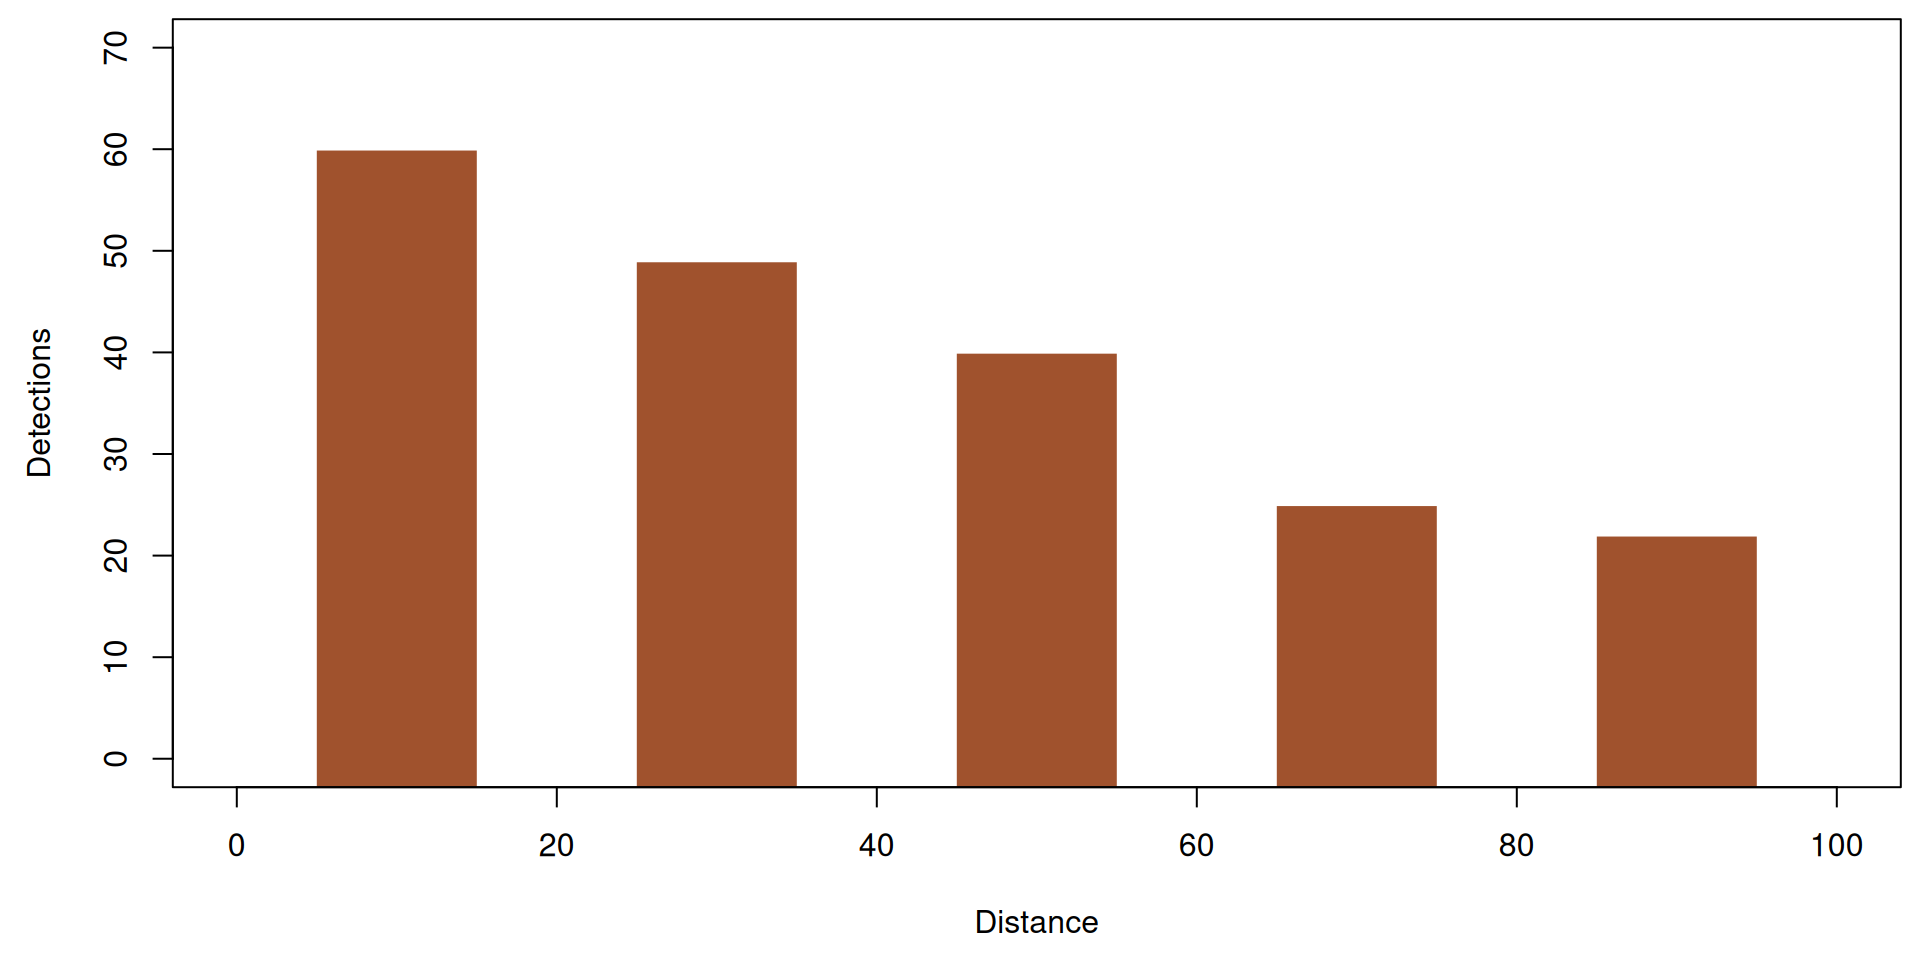
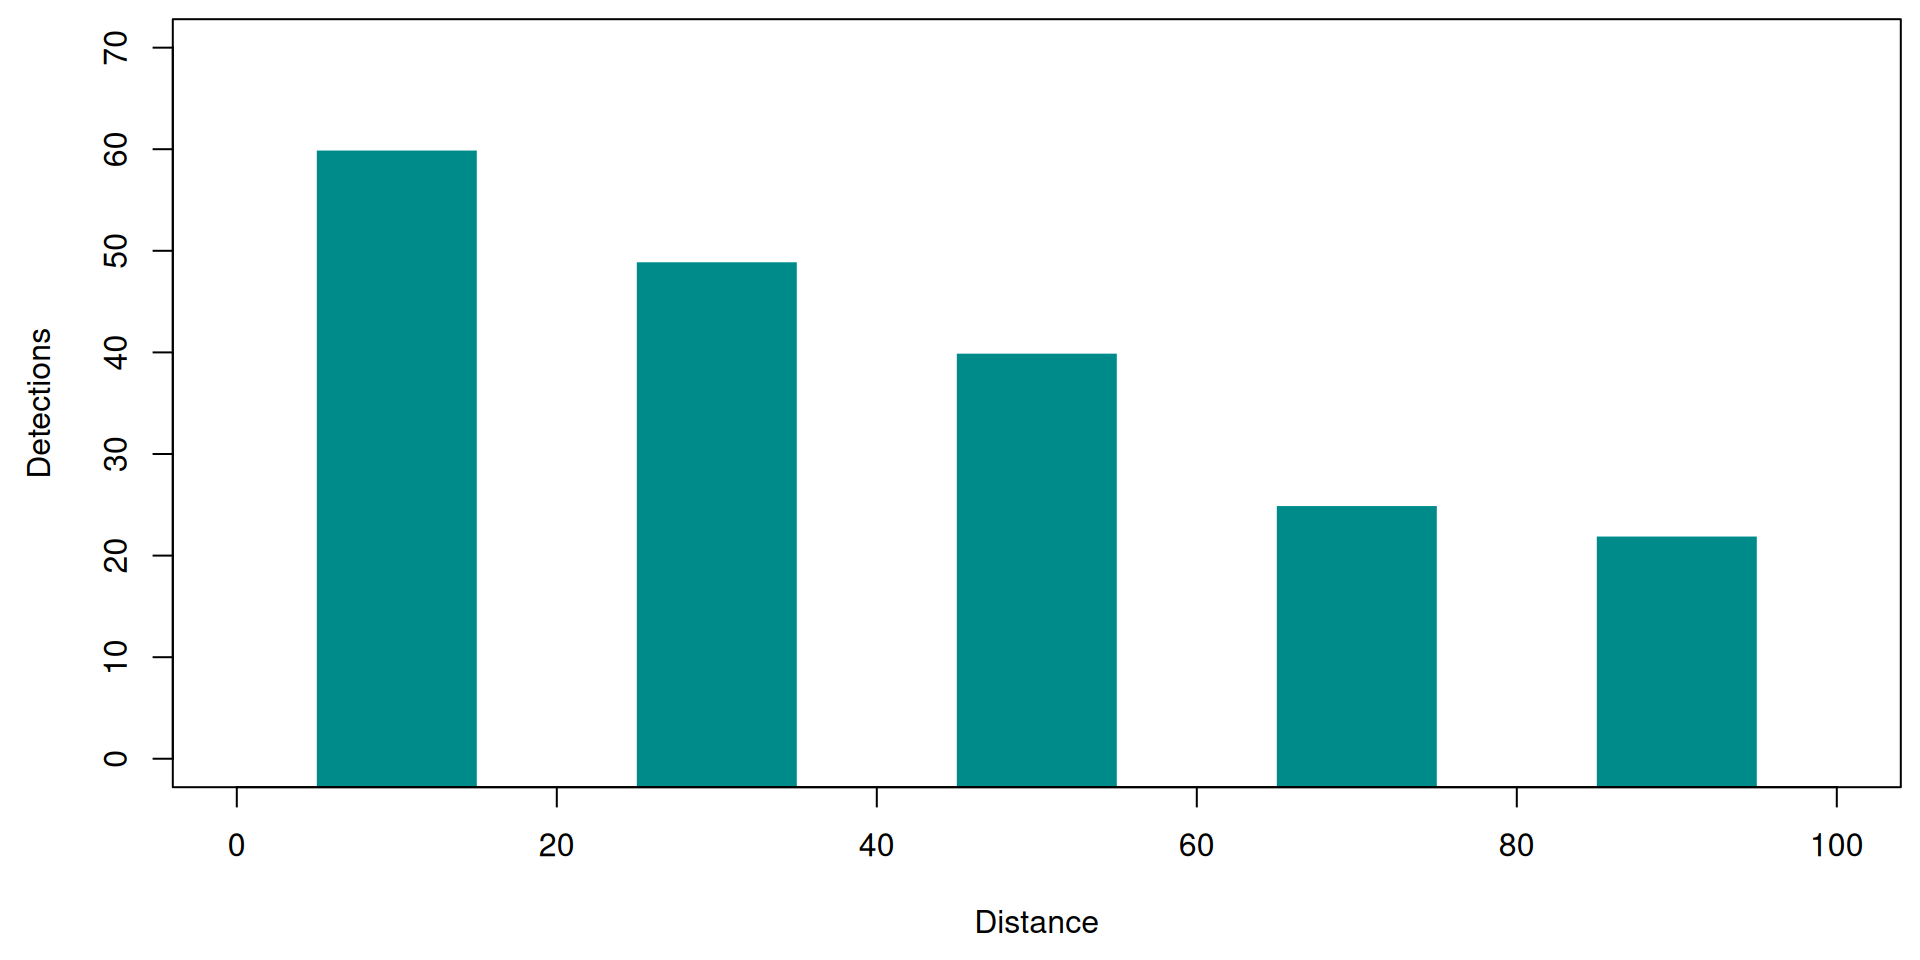
distsamp

diff --git a/docs/lectures/distsamp-HDS/lecture-distsamp-HDS.html b/docs/lectures/distsamp-HDS/lecture-distsamp-HDS.html
@@ -220,7 +220,7 @@
 <p>If we can estimate the function describing how <span class="math inline">\(p\)</span> declines with distance <span class="math inline">\(x\)</span>, we can estimate abundance…</p>
 </div>
 <div class="fragment">
-<p>if certain assumptions hold, as always.</p>
+<p>… if certain assumptions hold, as always.</p>
 </div>
 </section>
 <section id="distance-sampling-overview-1" class="slide level2">
@@ -466,7 +466,7 @@
 </div>
 <div class="fragment">
 <div style="font-size: 65%;">
-<p><span class="math inline">\(\lambda_i\)</span> – Expected value of abundance at site <span class="math inline">\(i\)</span> <br> <span class="math inline">\(N_i\)</span> – Realized value of abundance at site <span class="math inline">\(i\)</span> <br> <span class="math inline">\(\sigma_{i}\)</span> – Scale parameter of detection function <span class="math inline">\(g(x)\)</span> at site <span class="math inline">\(i\)</span> <br> <span class="math inline">\(\pi(x,\sigma_i)\)</span> – Function computing multinomial cell probs <br> <span class="math inline">\(y_{ij}\)</span> – count for distance bin <span class="math inline">\(j\)</span> (final count is unobserved) <br> <span class="math inline">\(w_1\)</span>, <span class="math inline">\(w_2\)</span>, <span class="math inline">\(w_3\)</span> – site covariates % %<br></p>
+<p><span class="math inline">\(\lambda_i\)</span> – Expected value of abundance at site <span class="math inline">\(i\)</span> <br> <span class="math inline">\(N_i\)</span> – Realized value of abundance at site <span class="math inline">\(i\)</span> <br> <span class="math inline">\(\sigma_{i}\)</span> – Scale parameter of detection function <span class="math inline">\(g(x)\)</span> at site <span class="math inline">\(i\)</span> <br> <span class="math inline">\(\pi(x,\sigma_i)\)</span> – Function computing multinomial cell probs <br> <span class="math inline">\(y_{ij}\)</span> – count for distance bin <span class="math inline">\(j\)</span> (final count is unobserved) <br> <span class="math inline">\(w_1\)</span>, <span class="math inline">\(w_2\)</span>, <span class="math inline">\(w_3\)</span> – site covariates</p>
 </div>
 </div>
 </section></section>
@@ -560,7 +560,7 @@
 <section id="observed-distances" class="slide level2">
 <h2>Observed distances</h2>
 <div class="cell">
-<div class="code-copy-outer-scaffold"><div class="sourceCode cell-code" id="cb13"><pre class="sourceCode numberSource r number-lines code-with-copy"><code class="sourceCode r"><span id="cb13-1"><a></a><span class="fu">plot</span>(b[<span class="sc">-</span>(J<span class="sc">+</span><span class="dv">1</span>)]<span class="sc">+</span><span class="dv">10</span>, <span class="fu">colSums</span>(y3), <span class="at">type=</span><span class="st">"h"</span>, <span class="at">lwd=</span><span class="dv">80</span>, <span class="at">lend=</span><span class="dv">2</span>, <span class="at">col=</span><span class="st">"seagreen"</span>,</span>
+<div class="code-copy-outer-scaffold"><div class="sourceCode cell-code" id="cb13"><pre class="sourceCode numberSource r number-lines code-with-copy"><code class="sourceCode r"><span id="cb13-1"><a></a><span class="fu">plot</span>(b[<span class="sc">-</span>(J<span class="sc">+</span><span class="dv">1</span>)]<span class="sc">+</span><span class="dv">10</span>, <span class="fu">colSums</span>(y3), <span class="at">type=</span><span class="st">"h"</span>, <span class="at">lwd=</span><span class="dv">80</span>, <span class="at">lend=</span><span class="dv">2</span>, <span class="at">col=</span><span class="st">"darkcyan"</span>, </span>
 <span id="cb13-2"><a></a>     <span class="at">xlim=</span><span class="fu">c</span>(<span class="dv">0</span>,<span class="dv">100</span>), <span class="at">ylim=</span><span class="fu">c</span>(<span class="dv">0</span>, <span class="dv">70</span>), <span class="at">xlab=</span><span class="st">"Distance"</span>, <span class="at">ylab=</span><span class="st">"Detections"</span>)</span></code></pre></div><button title="Copy to Clipboard" class="code-copy-button"><i class="bi"></i></button></div>
 
 </div>
@@ -599,7 +599,7 @@
 <section id="simulated-data" class="slide level2">
 <h2>Simulated data</h2>
 <div class="columns">
-<div class="column" style="width:50%;">
+<div class="column" style="width:45%;">
 <p>Observations</p>
 <div class="cell">
 <div class="code-copy-outer-scaffold"><div class="sourceCode cell-code" id="cb17"><pre class="sourceCode numberSource r number-lines code-with-copy"><code class="sourceCode r"><span id="cb17-1"><a></a>y4[<span class="dv">1</span><span class="sc">:</span><span class="dv">25</span>,]</span></code></pre></div><button title="Copy to Clipboard" class="code-copy-button"><i class="bi"></i></button></div>
@@ -632,9 +632,9 @@
 [25,]    0    0    0    0    0</code></pre>
 </div>
 </div>
-</div><div class="column" style="width:50%;">
+</div><div class="column" style="width:55%;">
 <p>Summary stats</p>
-<div style="font-size: 80%;">
+<div style="font-size: 70%;">
 <p>Proportion of sites known to be occupied</p>
 <div class="cell">
 <div class="code-copy-outer-scaffold"><div class="sourceCode cell-code" id="cb19"><pre class="sourceCode numberSource r number-lines code-with-copy"><code class="sourceCode r"><span id="cb19-1"><a></a><span class="co"># Max count at each site</span></span>
@@ -664,6 +664,7 @@
 </section>
 <section id="prepare-data-in-unmarked" class="slide level2">
 <h2>Prepare data in ‘unmarked’</h2>
+<div style="font-size: 80%;">
 <p>Note the new arguments.</p>
 <div class="cell">
 <div class="code-copy-outer-scaffold"><div class="sourceCode cell-code" id="cb25"><pre class="sourceCode numberSource r number-lines code-with-copy"><code class="sourceCode r"><span id="cb25-1"><a></a>umf4 <span class="ot">&lt;-</span> <span class="fu">unmarkedFrameDS</span>(<span class="at">y=</span>y4, <span class="at">siteCovs=</span><span class="fu">data.frame</span>(elevation,noise), <span class="at">dist.breaks=</span>b,</span>
@@ -696,9 +697,11 @@ Site-level covariates:
  Max.   : 2.2662   Max.   : 2.47751  </code></pre>
 </div>
 </div>
+</div>
 </section>
 <section id="fit-the-model" class="slide level2">
 <h2>Fit the model</h2>
+<div style="font-size: 80%;">
 <div class="cell">
 <div class="code-copy-outer-scaffold"><div class="sourceCode cell-code" id="cb28"><pre class="sourceCode numberSource r number-lines code-with-copy"><code class="sourceCode r"><span id="cb28-1"><a></a><span class="do">## fm4 &lt;- distsamp(~noise ~elevation, umf4, keyfun="exp")     # negative exp</span></span>
 <span id="cb28-2"><a></a><span class="do">## fm4 &lt;- distsamp(~noise ~elevation, umf4, keyfun="hazard")  # hazard rate</span></span>
@@ -726,6 +729,7 @@ Survey design: point-transect
 Detection function: halfnorm
 UnitsIn: m
 UnitsOut: ha </code></pre>
+</div>
 </div>
 </div>
 </section>
@@ -766,6 +770,7 @@ UnitsOut: ha </code></pre>
 <img data-src="lecture-distsamp-HDS_files/figure-revealjs/pred-sigma-1.png" class="quarto-figure quarto-figure-center r-stretch" style="width:80.0%"></section>
 <section id="prediction-in-unmarked-2" class="slide level2">
 <h2>Prediction in ‘unmarked’</h2>
+<div style="font-size: 80%;">
 <div class="cell" data-layout-align="center">
 <div class="code-copy-outer-scaffold"><div class="sourceCode cell-code" id="cb35"><pre class="sourceCode numberSource r number-lines code-with-copy"><code class="sourceCode r"><span id="cb35-1"><a></a><span class="fu">plot</span>(Predicted <span class="sc">~</span> noise, sigma.pred, <span class="at">ylab=</span><span class="st">"Scale parameter (sigma)"</span>,</span>
 <span id="cb35-2"><a></a>     <span class="at">ylim=</span><span class="fu">c</span>(<span class="dv">0</span>,<span class="dv">100</span>), <span class="at">xlab=</span><span class="st">"Noise level"</span>, <span class="at">type=</span><span class="st">"l"</span>)</span>
@@ -776,11 +781,19 @@ UnitsOut: ha </code></pre>
 <span id="cb35-7"><a></a><span class="fu">par</span>( <span class="at">fig=</span><span class="fu">c</span>(<span class="fl">0.5</span>,<span class="fl">0.95</span>,<span class="fl">0.55</span>,<span class="fl">0.95</span>), <span class="at">new=</span><span class="cn">TRUE</span>, <span class="at">las=</span><span class="dv">1</span>)<span class="co">#, mar=c(0,0,0,0) )</span></span>
 <span id="cb35-8"><a></a><span class="fu">plot</span>(<span class="cf">function</span>(x) <span class="fu">exp</span>(<span class="sc">-</span>x<span class="sc">^</span><span class="dv">2</span><span class="sc">/</span>(<span class="dv">2</span><span class="sc">*</span><span class="dv">40</span><span class="sc">^</span><span class="dv">2</span>)), <span class="dv">0</span>, <span class="dv">100</span>, <span class="at">xlab=</span><span class="st">"Dist"</span>, <span class="at">ylab=</span><span class="st">"p"</span>,</span>
 <span id="cb35-9"><a></a>     <span class="at">col=</span><span class="st">"orange"</span>, <span class="at">lwd=</span><span class="dv">2</span>, <span class="at">ylim=</span><span class="fu">c</span>(<span class="dv">0</span>,<span class="dv">1</span>), <span class="at">las=</span><span class="dv">1</span>)</span></code></pre></div><button title="Copy to Clipboard" class="code-copy-button"><i class="bi"></i></button></div>
-
+<div class="cell-output-display">
+<div class="quarto-figure quarto-figure-center">
+<figure>
+<p><img data-src="lecture-distsamp-HDS_files/figure-revealjs/pred-sigma2-1.png" class="quarto-figure quarto-figure-center" style="width:50.0%"></p>
+</figure>
 </div>
-<img data-src="lecture-distsamp-HDS_files/figure-revealjs/pred-sigma2-1.png" class="quarto-figure quarto-figure-center r-stretch" style="width:80.0%"></section>
+</div>
+</div>
+</div>
+</section>
 <section id="prediction-in-unmarked-3" class="slide level2">
 <h2>Prediction in ‘unmarked’</h2>
+<div style="font-size: 80%;">
 <div class="cell" data-layout-align="center">
 <div class="code-copy-outer-scaffold"><div class="sourceCode cell-code" id="cb36"><pre class="sourceCode numberSource r number-lines code-with-copy"><code class="sourceCode r"><span id="cb36-1"><a></a><span class="fu">plot</span>(Predicted <span class="sc">~</span> noise, sigma.pred, <span class="at">ylab=</span><span class="st">"Scale parameter (sigma)"</span>,</span>
 <span id="cb36-2"><a></a>     <span class="at">ylim=</span><span class="fu">c</span>(<span class="dv">0</span>,<span class="dv">100</span>), <span class="at">xlab=</span><span class="st">"Noise level"</span>, <span class="at">type=</span><span class="st">"l"</span>)</span>
@@ -791,9 +804,16 @@ UnitsOut: ha </code></pre>
 <span id="cb36-7"><a></a><span class="fu">par</span>( <span class="at">fig=</span><span class="fu">c</span>(<span class="fl">0.5</span>,<span class="fl">0.95</span>,<span class="fl">0.55</span>,<span class="fl">0.95</span>), <span class="at">new=</span><span class="cn">TRUE</span>, <span class="at">las=</span><span class="dv">1</span>)<span class="co">#, mar=c(0,0,0,0) )</span></span>
 <span id="cb36-8"><a></a><span class="fu">plot</span>(<span class="cf">function</span>(x) <span class="fu">exp</span>(<span class="sc">-</span>x<span class="sc">^</span><span class="dv">2</span><span class="sc">/</span>(<span class="dv">2</span><span class="sc">*</span><span class="dv">15</span><span class="sc">^</span><span class="dv">2</span>)), <span class="dv">0</span>, <span class="dv">100</span>, <span class="at">xlab=</span><span class="st">"Dist"</span>, <span class="at">ylab=</span><span class="st">"p"</span>,</span>
 <span id="cb36-9"><a></a>     <span class="at">col=</span><span class="st">"red"</span>, <span class="at">lwd=</span><span class="dv">2</span>, <span class="at">ylim=</span><span class="fu">c</span>(<span class="dv">0</span>,<span class="dv">1</span>), <span class="at">las=</span><span class="dv">1</span>)</span></code></pre></div><button title="Copy to Clipboard" class="code-copy-button"><i class="bi"></i></button></div>
-
+<div class="cell-output-display">
+<div class="quarto-figure quarto-figure-center">
+<figure>
+<p><img data-src="lecture-distsamp-HDS_files/figure-revealjs/pred-sigma2-2-1.png" class="quarto-figure quarto-figure-center" style="width:50.0%"></p>
+</figure>
 </div>
-<img data-src="lecture-distsamp-HDS_files/figure-revealjs/pred-sigma2-2-1.png" class="quarto-figure quarto-figure-center r-stretch" style="width:80.0%"></section>
+</div>
+</div>
+</div>
+</section>
 <section id="conditional-on-n-and-ni" class="slide level2">
 <h2>Conditional-on-<em>N</em> and <em>n<sub>i</sub></em></h2>
 <p><a href="distsamp-point-mod.jag">distsamp-point-mod.jag</a></p>
@@ -871,12 +891,11 @@ totalAbundance &lt;- sum(N[1:nSites])
 <div class="code-copy-outer-scaffold"><div class="sourceCode cell-code" id="cb42"><pre class="sourceCode numberSource r number-lines code-with-copy"><code class="sourceCode r"><span id="cb42-1"><a></a><span class="fu">round</span>(<span class="fu">summary</span>(jags.post.pt)<span class="sc">$</span>quantile, <span class="at">digits=</span><span class="dv">3</span>)</span></code></pre></div><button title="Copy to Clipboard" class="code-copy-button"><i class="bi"></i></button></div>
 <div class="cell-output cell-output-stdout">
 <pre><code>                   2.5%      25%      50%      75%    97.5%
-alpha0            2.896    2.940    2.963    2.986    3.034
-alpha1           -0.588   -0.546   -0.527   -0.508   -0.473
-beta0             1.830    1.938    1.999    2.056    2.160
-beta1             0.822    0.899    0.945    0.991    1.084
-deviance        645.076  653.169  657.830  662.572  672.513
-totalAbundance 2775.975 3103.000 3276.000 3464.000 3862.025</code></pre>
+alpha0            2.895    2.940    2.964    2.989    3.031
+alpha1           -0.587   -0.549   -0.529   -0.510   -0.474
+beta0             1.806    1.922    1.985    2.050    2.158
+beta1             0.833    0.914    0.958    1.008    1.108
+totalAbundance 2847.000 3099.000 3264.500 3459.000 3814.025</code></pre>
 </div>
 </div>
 </section></section>
@@ -934,7 +953,7 @@ totalAbundance 2775.975 3103.000 3276.000 3464.000 3862.025</code></pre>
 <section id="observed-distances-1" class="slide level2">
 <h2>Observed distances</h2>
 <div class="cell">
-<div class="code-copy-outer-scaffold"><div class="sourceCode cell-code" id="cb47"><pre class="sourceCode numberSource r number-lines code-with-copy"><code class="sourceCode r"><span id="cb47-1"><a></a><span class="fu">plot</span>(b[<span class="sc">-</span>(J<span class="sc">+</span><span class="dv">1</span>)]<span class="sc">+</span><span class="dv">10</span>, <span class="fu">colSums</span>(y1), <span class="at">type=</span><span class="st">"h"</span>, <span class="at">lwd=</span><span class="dv">80</span>, <span class="at">lend=</span><span class="dv">2</span>, <span class="at">col=</span><span class="st">"sienna"</span>,</span>
+<div class="code-copy-outer-scaffold"><div class="sourceCode cell-code" id="cb47"><pre class="sourceCode numberSource r number-lines code-with-copy"><code class="sourceCode r"><span id="cb47-1"><a></a><span class="fu">plot</span>(b[<span class="sc">-</span>(J<span class="sc">+</span><span class="dv">1</span>)]<span class="sc">+</span><span class="dv">10</span>, <span class="fu">colSums</span>(y1), <span class="at">type=</span><span class="st">"h"</span>, <span class="at">lwd=</span><span class="dv">80</span>, <span class="at">lend=</span><span class="dv">2</span>, <span class="at">col=</span><span class="st">"darkcyan"</span>,</span>
 <span id="cb47-2"><a></a>     <span class="at">xlim=</span><span class="fu">c</span>(<span class="dv">0</span>,<span class="dv">100</span>), <span class="at">ylim=</span><span class="fu">c</span>(<span class="dv">0</span>, <span class="dv">70</span>), <span class="at">xlab=</span><span class="st">"Distance"</span>, <span class="at">ylab=</span><span class="st">"Detections"</span>)</span></code></pre></div><button title="Copy to Clipboard" class="code-copy-button"><i class="bi"></i></button></div>
 
 </div>
@@ -973,7 +992,7 @@ totalAbundance 2775.975 3103.000 3276.000 3464.000 3862.025</code></pre>
 <section id="simulated-data-1" class="slide level2">
 <h2>Simulated data</h2>
 <div class="columns">
-<div class="column" style="width:50%;">
+<div class="column" style="width:45%;">
 <p>Observations</p>
 <div class="cell">
 <div class="code-copy-outer-scaffold"><div class="sourceCode cell-code" id="cb51"><pre class="sourceCode numberSource r number-lines code-with-copy"><code class="sourceCode r"><span id="cb51-1"><a></a>y2[<span class="dv">1</span><span class="sc">:</span><span class="dv">25</span>,]</span></code></pre></div><button title="Copy to Clipboard" class="code-copy-button"><i class="bi"></i></button></div>
@@ -1006,7 +1025,8 @@ totalAbundance 2775.975 3103.000 3276.000 3464.000 3862.025</code></pre>
 [25,]    7    8    4    1    2</code></pre>
 </div>
 </div>
-</div><div class="column" style="width:50%;">
+</div><div class="column" style="width:55%;">
+<div style="font-size: 80%;">
 <p>Summary stats</p>
 <p>Proportion of sites known to be occupied</p>
 <div class="cell">
@@ -1032,10 +1052,12 @@ totalAbundance 2775.975 3103.000 3276.000 3464.000 3862.025</code></pre>
 <pre><code>[1] 621</code></pre>
 </div>
 </div>
+</div>
 </div></div>
 </section>
 <section id="prepare-data-in-unmarked-1" class="slide level2">
 <h2>Prepare data in ‘unmarked’</h2>
+<div style="font-size: 80%;">
 <p>Note the new arguments.</p>
 <div class="cell">
 <div class="code-copy-outer-scaffold"><div class="sourceCode cell-code" id="cb59"><pre class="sourceCode numberSource r number-lines code-with-copy"><code class="sourceCode r"><span id="cb59-1"><a></a>umf <span class="ot">&lt;-</span> <span class="fu">unmarkedFrameDS</span>(<span class="at">y=</span>y2, <span class="at">siteCovs=</span><span class="fu">data.frame</span>(elevation,noise), <span class="at">dist.breaks=</span>b,</span>
@@ -1068,9 +1090,11 @@ Site-level covariates:
  Max.   : 2.03949   Max.   : 1.84018  </code></pre>
 </div>
 </div>
+</div>
 </section>
 <section id="fit-the-model-1" class="slide level2">
 <h2>Fit the model</h2>
+<div style="font-size: 70%;">
 <div class="cell">
 <div class="code-copy-outer-scaffold"><div class="sourceCode cell-code" id="cb62"><pre class="sourceCode numberSource r number-lines code-with-copy"><code class="sourceCode r"><span id="cb62-1"><a></a><span class="do">## fm &lt;- distsamp(~noise ~elevation, umf, keyfun="exp")     # negative exp</span></span>
 <span id="cb62-2"><a></a><span class="do">## fm &lt;- distsamp(~noise ~elevation, umf, keyfun="hazard")  # hazard rate</span></span>
@@ -1110,6 +1134,7 @@ UnitsOut: ha </code></pre>
 <div class="cell-output cell-output-stdout">
 <pre><code>alpha0 alpha1 
    3.0   -0.5 </code></pre>
+</div>
 </div>
 </div>
 </section>
@@ -1188,12 +1213,11 @@ totalAbundance &lt;- sum(N[1:nSites])
 <div class="code-copy-outer-scaffold"><div class="sourceCode cell-code" id="cb72"><pre class="sourceCode numberSource r number-lines code-with-copy"><code class="sourceCode r"><span id="cb72-1"><a></a><span class="fu">round</span>(<span class="fu">summary</span>(jags.post.line)<span class="sc">$</span>quantile, <span class="at">digits=</span><span class="dv">3</span>)</span></code></pre></div><button title="Copy to Clipboard" class="code-copy-button"><i class="bi"></i></button></div>
 <div class="cell-output cell-output-stdout">
 <pre><code>                   2.5%      25%      50%      75%    97.5%
-alpha0            2.859    2.905    2.930    2.955    3.000
-alpha1           -0.576   -0.535   -0.514   -0.494   -0.456
-beta0             1.923    2.003    2.044    2.085    2.168
-beta1             0.924    0.987    1.021    1.057    1.118
-deviance        767.462  778.736  784.953  791.727  805.744
-totalAbundance 1925.000 2050.750 2112.000 2178.000 2306.000</code></pre>
+alpha0            2.857    2.905    2.928    2.952    3.003
+alpha1           -0.578   -0.536   -0.515   -0.494   -0.458
+beta0             1.915    2.004    2.046    2.085    2.161
+beta1             0.930    0.990    1.022    1.055    1.119
+totalAbundance 1921.975 2045.000 2112.000 2181.000 2314.025</code></pre>
 </div>
 </div>
 </section>

diff --git a/docs/index.html b/docs/index.html
@@ -214,7 +214,8 @@ ul.task-list li input[type="checkbox"] {
 <section id="week-6---multinomial-n-mixture-models" class="level4">
 <h4 class="anchored" data-anchor-id="week-6---multinomial-n-mixture-models">Week 6 - Multinomial N-mixture models</h4>
 <ul>
-<li><a href="./lectures/Nmix-multiI/lecture-Nmix-multinomial-I.html">Lecture 7 - Multinomial N-mixture models</a></li>
+<li><p><a href="./lectures/Nmix-multiI/lecture-Nmix-multinomial-I.html">Lecture 7 - Multinomial N-mixture models</a></p></li>
+<li><p><a href="./lectures/distsamp-HDS/lecture-distsamp-HDS.html">Lecture 8 - Distance sampling</a></p></li>
 </ul>
 </section>
 </section>
